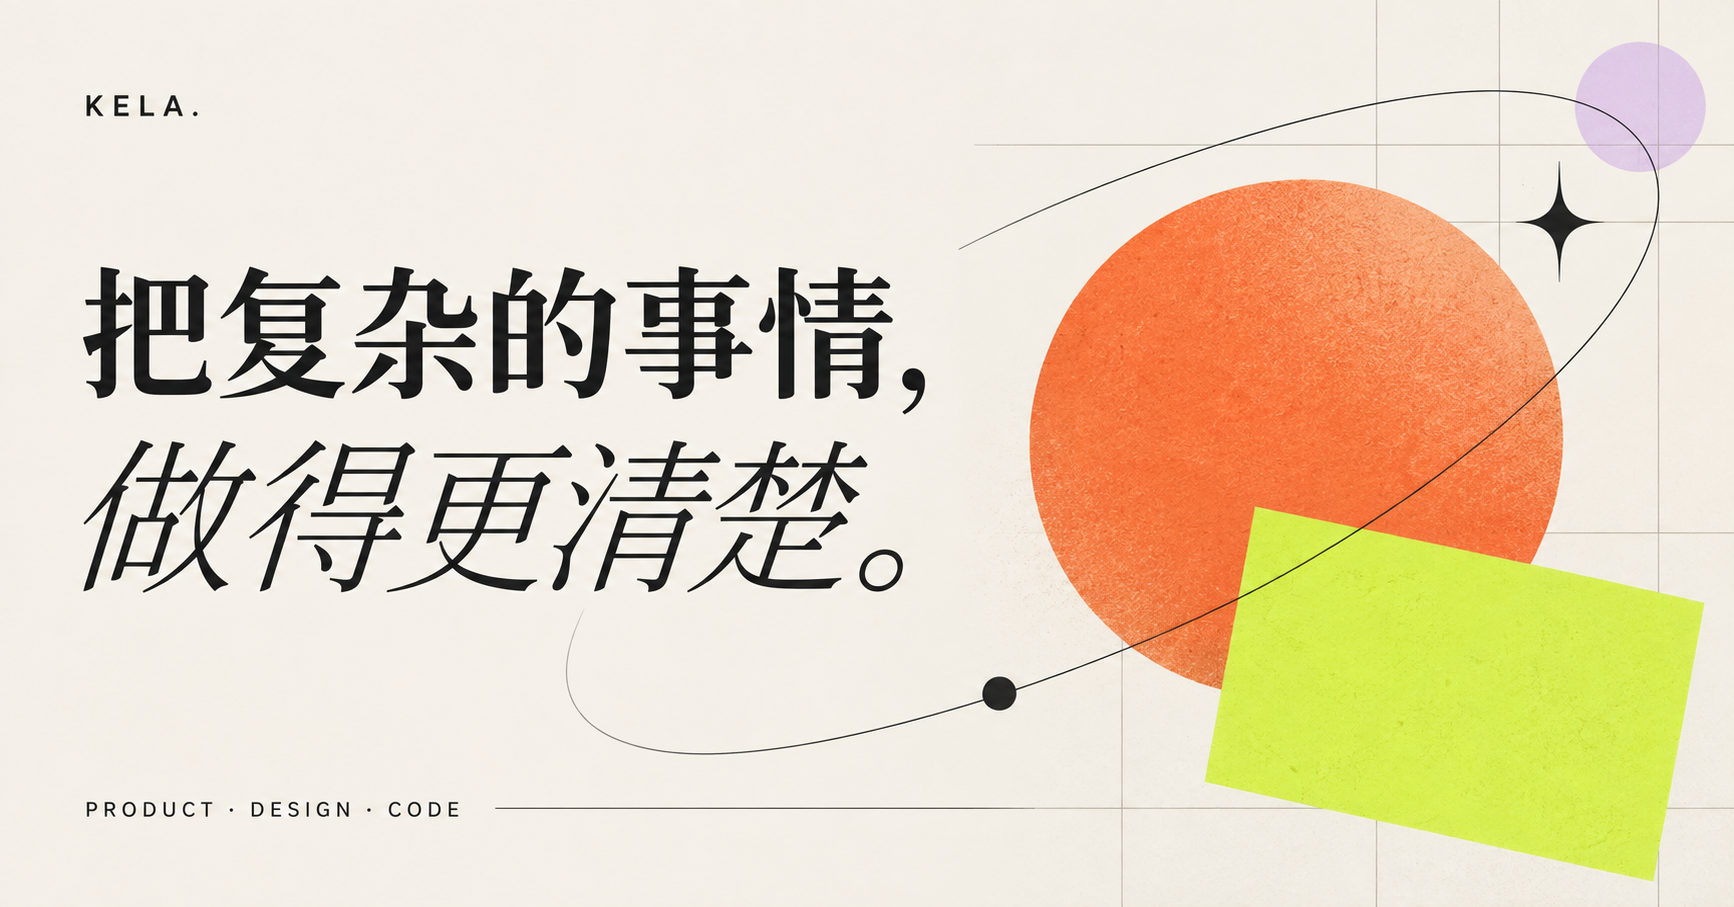
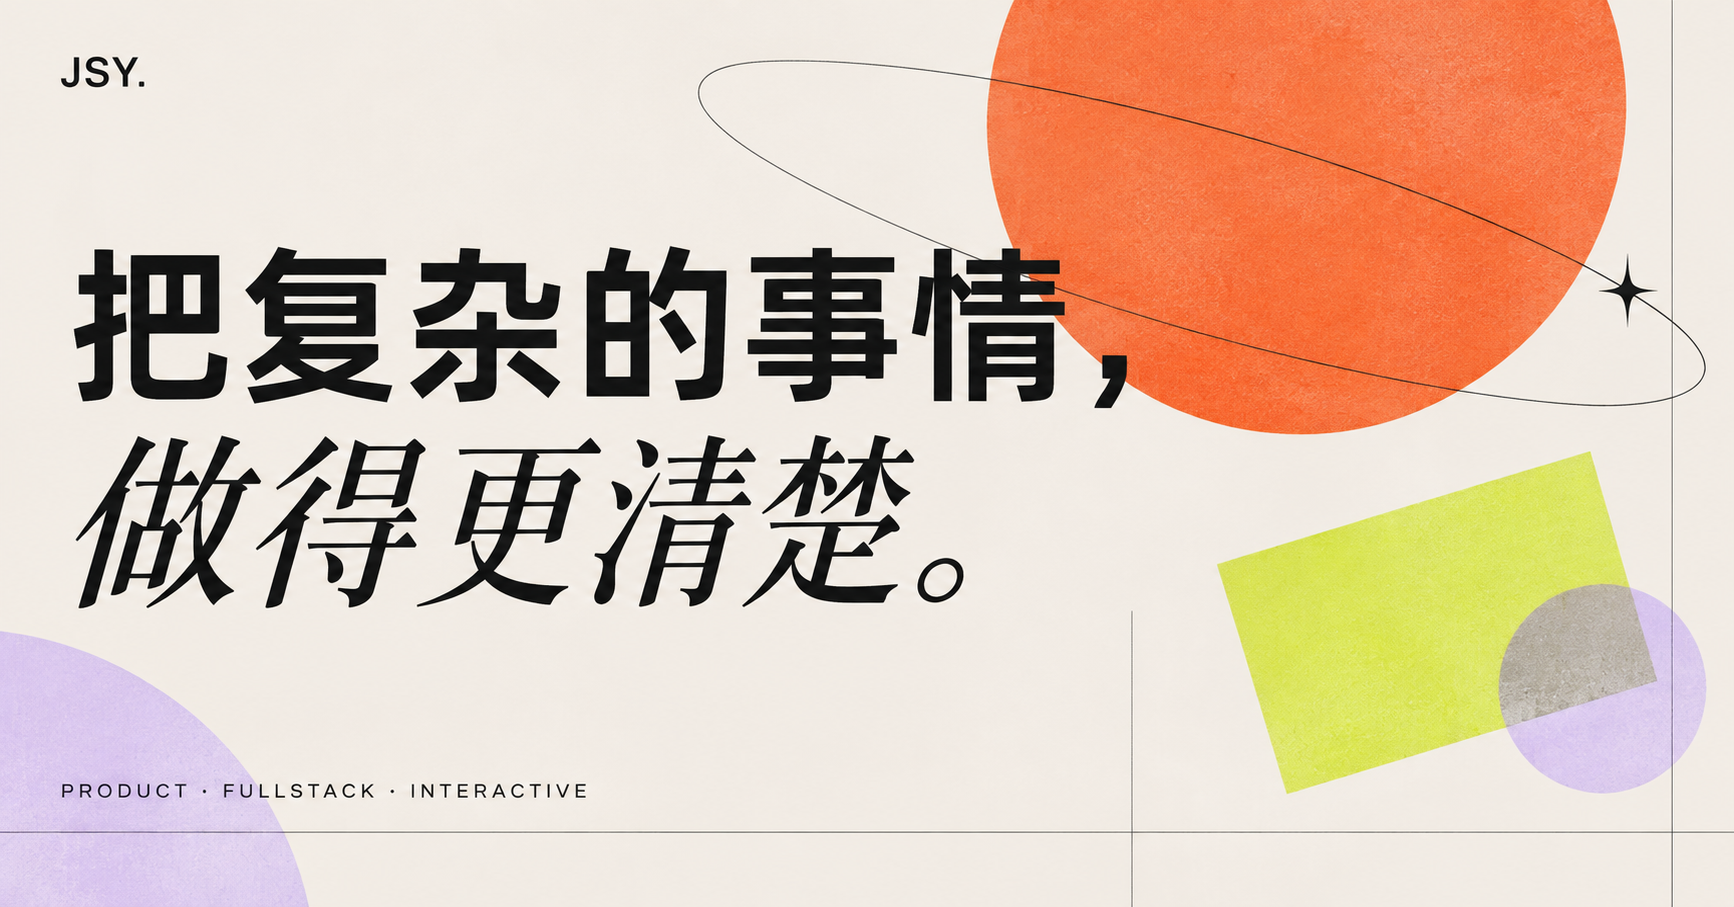
Update profile and featured projects

diff --git a/index.html b/index.html
@@ -6,18 +6,18 @@
     <meta name="theme-color" content="#f4efe7" />
     <meta
       name="description"
-      content="Kela 的个人主页：产品、设计与技术之间的独立创作者。"
+      content="JSY 的个人主页：产品、全栈开发与互动体验。"
     />
-    <meta property="og:title" content="Kela — 把复杂的事情，做得更清楚。" />
+    <meta property="og:title" content="JSY — 把复杂的事情，做得更清楚。" />
     <meta
       property="og:description"
-      content="产品、设计与技术之间的独立创作者。"
+      content="产品、全栈开发与互动体验。"
     />
     <meta property="og:type" content="website" />
     <meta property="og:image" content="og.png" />
     <meta name="twitter:card" content="summary_large_image" />
     <meta name="twitter:image" content="og.png" />
-    <title>Kela — Personal Web</title>
+    <title>JSY — Personal Web</title>
     <link rel="stylesheet" href="styles.css" />
   </head>
   <body>
@@ -44,16 +44,16 @@
       <main>
         <section class="hero section-pad" aria-labelledby="hero-title">
           <div class="hero-copy">
-            <p class="eyebrow"><span class="eyebrow-line"></span>独立创作者 / 上海 · 远程</p>
+            <p class="eyebrow"><span class="eyebrow-line"></span>全栈创作者 / 产品 · 互动体验</p>
             <h1 id="hero-title">把复杂的事情，<em>做得更清楚。</em></h1>
             <p class="hero-intro">
-              你好，我是 Kela。专注于产品、设计与技术交叉的独立创作者，喜欢把模糊的想法整理成有用、好用、值得记住的东西。
+              你好，我是 jsy。专注于产品、全栈开发与互动体验，喜欢把复杂的业务流程整理成清晰、可靠、真正有人使用的产品。
             </p>
             <div class="hero-actions">
               <a class="button button-primary" href="#work">看看作品 <span aria-hidden="true">↓</span></a>
               <a class="text-link" href="#about">了解我 <span aria-hidden="true">↗</span></a>
             </div>
-            <div class="availability"><span class="status-dot"></span> 2024 Q4 可接 1 个合作项目</div>
+            <div class="availability"><span class="status-dot"></span> 正在寻找下一个有意义的合作项目</div>
           </div>
 
           <div class="hero-visual" aria-label="关于创作与工作的视觉卡片">
@@ -89,26 +89,26 @@
 
           <div class="project-grid">
             <a class="project-card project-card-dark" href="#contact" aria-label="项目一：拾光项目详情">
-              <div class="project-topline"><span>01 — PRODUCT / BRAND</span><span>2024</span></div>
+              <div class="project-topline"><span>01 — FULLSTACK / PRIVATE PROJECT</span><span>2026</span></div>
               <div class="project-art art-spark" aria-hidden="true">
-                <span class="spark-ring"></span><span class="spark-core">拾<br />光</span><span class="spark-star">✦</span>
+                <span class="spark-ring"></span><span class="spark-core">MUSE<br />MAKER</span><span class="spark-star">✦</span>
               </div>
-              <div class="project-info"><h3>拾光</h3><p>一个帮人记录日常微小美好的轻量产品。</p><span class="project-arrow">↗</span></div>
+              <div class="project-info"><h3>Muse Maker</h3><p>高校年轻群体 DIY 定制饰品的全栈订单管理系统，覆盖在线设计、生产、库存与数据分析。</p><span class="project-arrow">↗</span></div>
             </a>
 
-            <a class="project-card project-card-orange" href="#contact" aria-label="项目二：Open Desk 项目详情">
-              <div class="project-topline"><span>02 — DIGITAL / COMMUNITY</span><span>2023</span></div>
+            <a class="project-card project-card-orange" href="#contact" aria-label="项目二：邻里帮项目详情">
+              <div class="project-topline"><span>02 — PLATFORM / PRIVATE PROJECT</span><span>2026</span></div>
               <div class="project-art art-desk" aria-hidden="true">
                 <div class="desk-window"><div class="window-bar"></div><div class="window-row wide"></div><div class="window-row"></div><div class="window-row short"></div></div>
-                <span class="desk-label">OPEN<br />DESK</span>
+                <span class="desk-label">LINLI<br />BANG</span>
               </div>
-              <div class="project-info"><h3>Open Desk</h3><p>让独立工作者找到同频伙伴的线上空间。</p><span class="project-arrow">↗</span></div>
+              <div class="project-info"><h3>邻里帮</h3><p>同城陪护与代办平台，包含响应式网页端与基础 API，连接需求与服务。</p><span class="project-arrow">↗</span></div>
             </a>
 
-            <a class="project-card project-card-lilac" href="#contact" aria-label="项目三：慢速通讯项目详情">
-              <div class="project-topline"><span>03 — EDITORIAL / WEB</span><span>2023</span></div>
-              <div class="project-art art-letter" aria-hidden="true"><div class="letter-page"><span>slow</span><strong>通信</strong><small>给生活留一点空白。</small></div><span class="letter-stamp">SLOW<br />MAIL</span></div>
-              <div class="project-info"><h3>慢速通讯</h3><p>一份关于注意力、生活与互联网的 newsletter。</p><span class="project-arrow">↗</span></div>
+            <a class="project-card project-card-lilac" href="https://github.com/yonghuming-jsy/gestAura-Studio-MediaPipe" target="_blank" rel="noreferrer" aria-label="项目三：gestAura Studio 项目详情">
+              <div class="project-topline"><span>03 — INTERACTIVE / WEB AUDIO</span><span>2026</span></div>
+              <div class="project-art art-letter" aria-hidden="true"><div class="letter-page"><span>gestAura</span><strong>Studio</strong><small>用双手演奏浏览器。</small></div><span class="letter-stamp">OPEN<br />SOURCE</span></div>
+              <div class="project-info"><h3>gestAura Studio</h3><p>基于 MediaPipe 与 Web Audio API 的浏览器手势音乐项目。</p><span class="project-arrow">↗</span></div>
             </a>
           </div>
         </section>
@@ -116,10 +116,10 @@
         <section class="about section-pad" id="about" aria-labelledby="about-title">
           <div class="about-aside"><p class="eyebrow">02 / 关于我</p><span class="aside-symbol" aria-hidden="true">◎</span></div>
           <div class="about-content">
-            <h2 id="about-title">我相信，<br /><em>清晰是一种温柔。</em></h2>
+            <h2 id="about-title">我相信，<br /><em>好产品要让人少想一步。</em></h2>
             <div class="about-columns">
-              <p>我在产品策略、视觉设计和前端开发之间工作。比起把一件事做得“更满”，我更在意它能不能被理解、被使用，然后真正进入某个人的生活。</p>
-              <p>过去几年里，我和早期创业者、文化机构以及一群很棒的独立创作者合作。如果你有一个还没被说清楚的想法，也许我们可以从一杯咖啡开始。</p>
+              <p>我在产品梳理、全栈开发和互动体验之间工作。过去做过定制饰品订单管理系统、同城陪护代办平台，也做过用双手演奏音乐的浏览器实验。</p>
+              <p>比起把功能堆满，我更在意流程是否清楚、系统是否可靠、最后是否真的让人用得起来。如果你有一个还没被说清楚的想法，也许我们可以从一杯咖啡开始。</p>
             </div>
             <div class="skill-list" aria-label="能力领域">
               <span>产品策略</span><span>品牌方向</span><span>界面设计</span><span>前端开发</span><span>内容系统</span>
@@ -145,8 +145,8 @@
             <h2 id="contact-title">有一个想法？<br /><em>我们聊聊。</em></h2>
             <p class="contact-copy">不管它现在是一页计划、几句草稿，还是脑海里一个还没成形的念头，都可以发给我。</p>
             <div class="contact-actions">
-              <a class="button button-light" href="mailto:hello@kela.studio">hello@kela.studio <span aria-hidden="true">↗</span></a>
-              <button class="copy-email" type="button" data-copy-email="hello@kela.studio">复制邮箱</button>
+              <a class="button button-light" href="mailto:hello@jsy.studio">hello@jsy.studio <span aria-hidden="true">↗</span></a>
+              <button class="copy-email" type="button" data-copy-email="hello@jsy.studio">复制邮箱</button>
             </div>
             <div class="contact-orbit orbit-contact" aria-hidden="true">✳</div>
           </div>
@@ -154,7 +154,7 @@
       </main>
 
       <footer class="site-footer">
-        <span>© 2024 Kela. Made with curiosity.</span>
+        <span>© 2026 JSY. Made with curiosity.</span>
         <div class="footer-links"><a href="https://github.com/" target="_blank" rel="noreferrer">GitHub ↗</a><a href="#top">回到顶部 ↑</a></div>
       </footer>
     </div>
